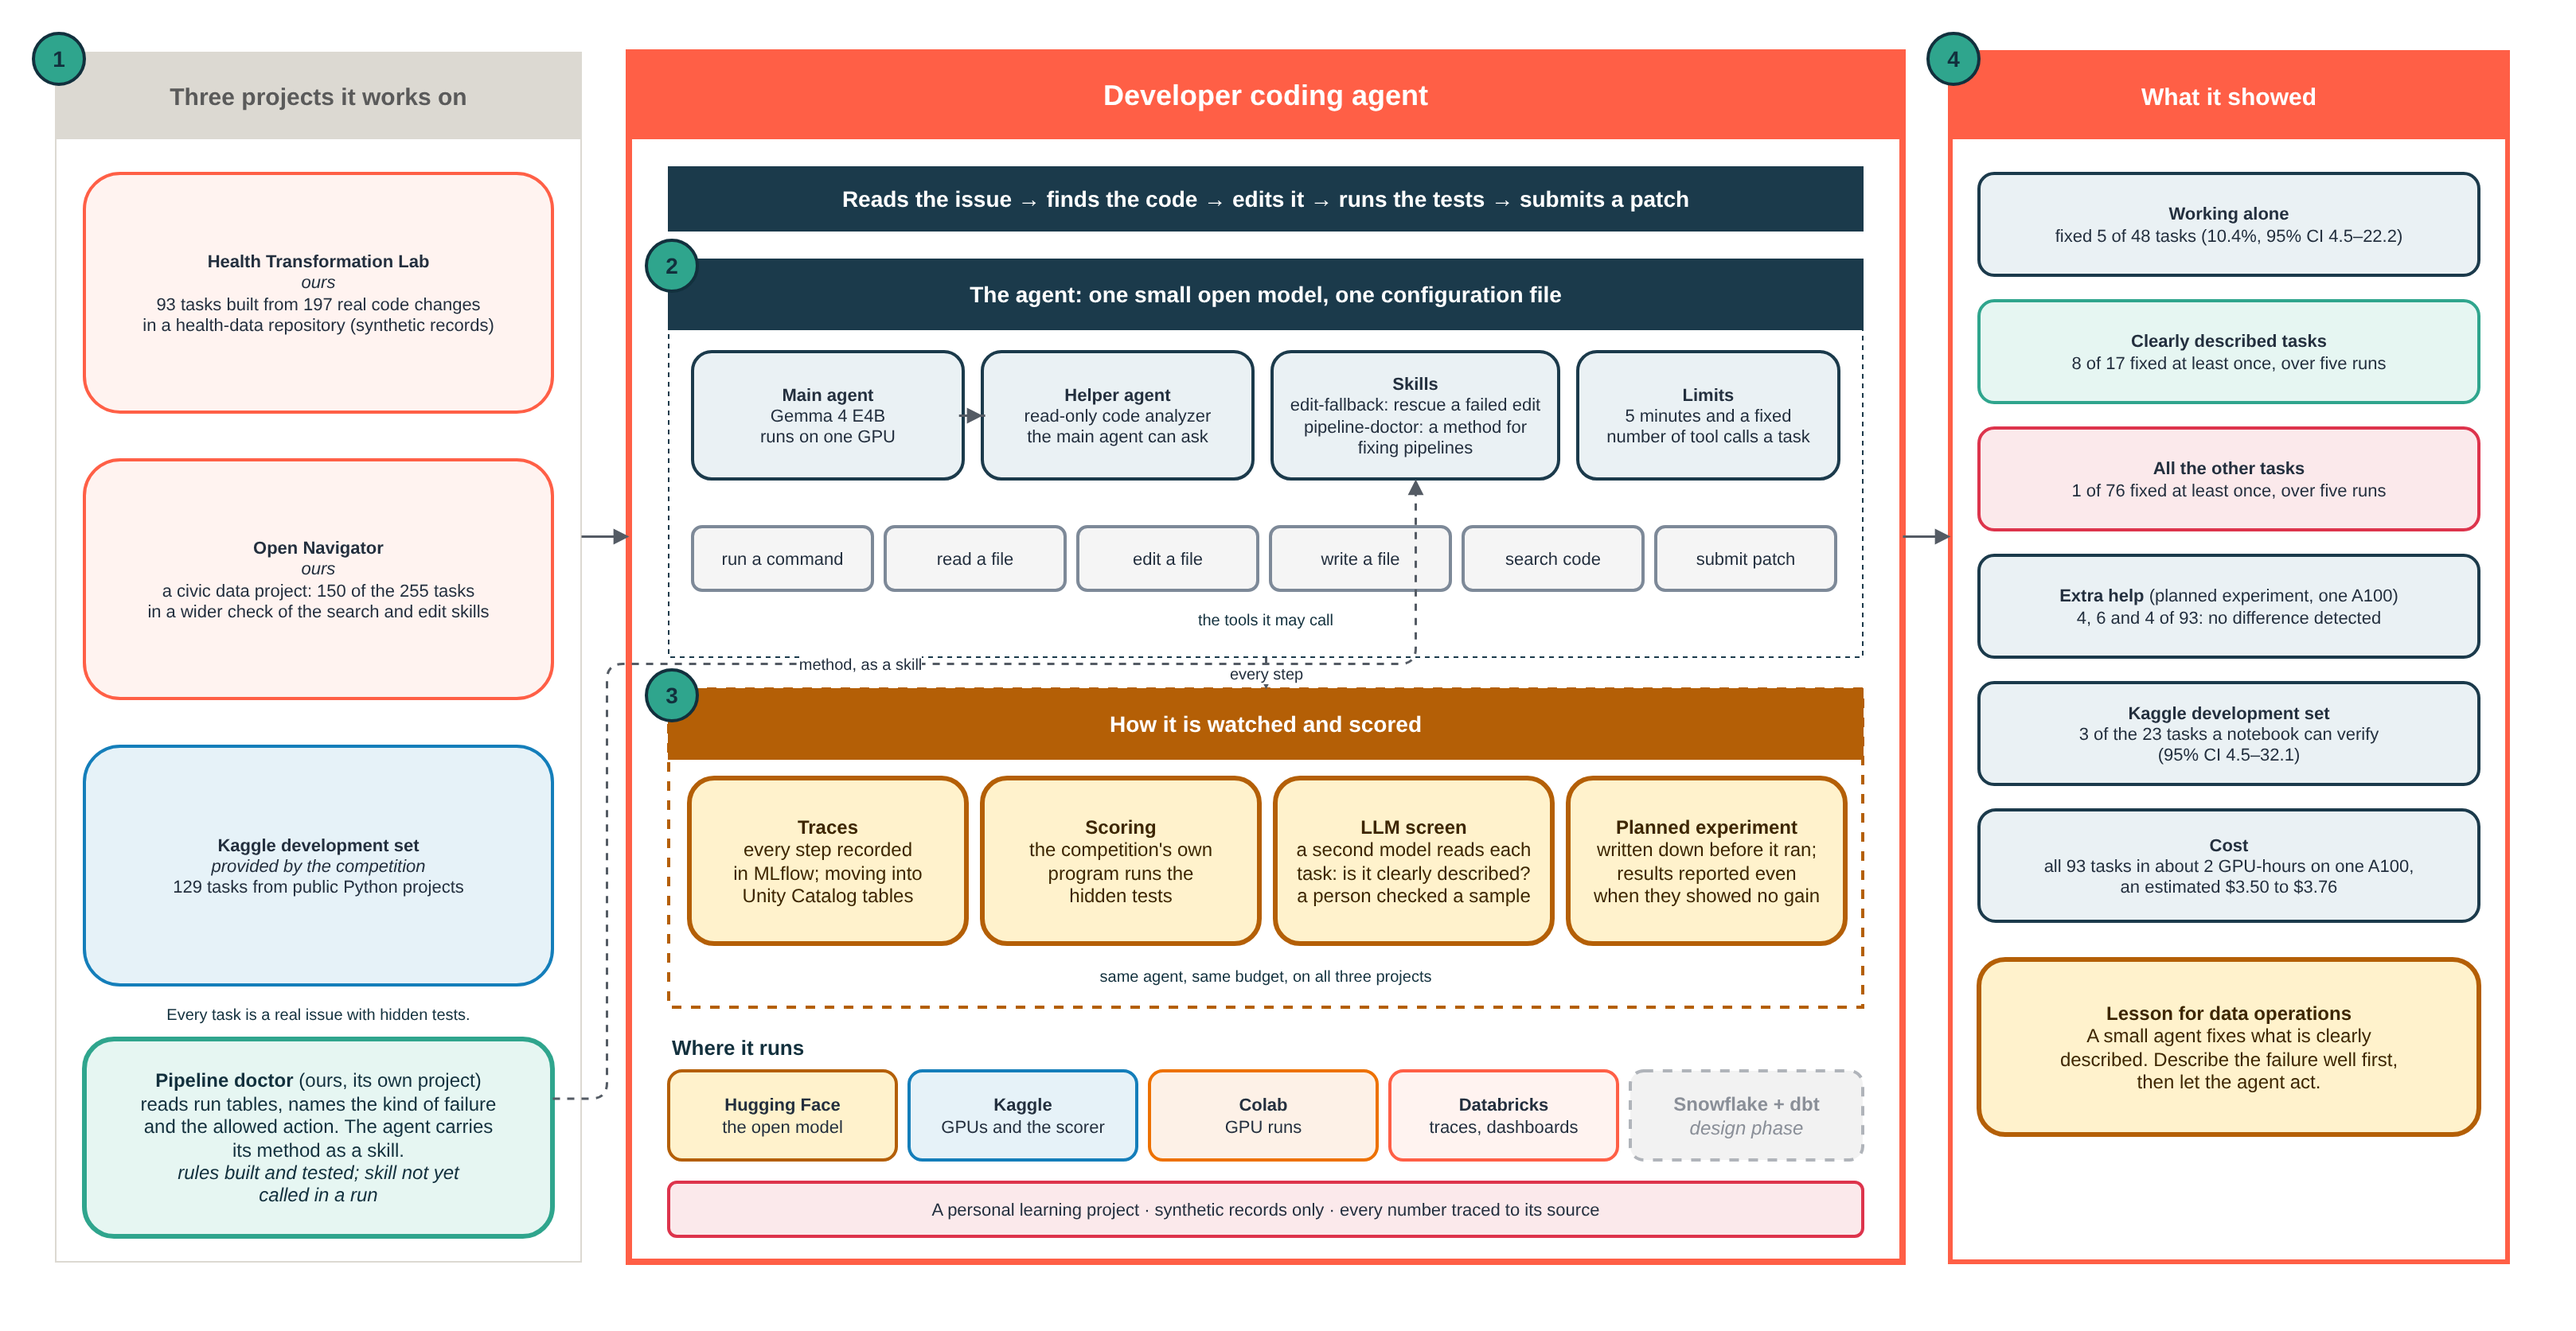
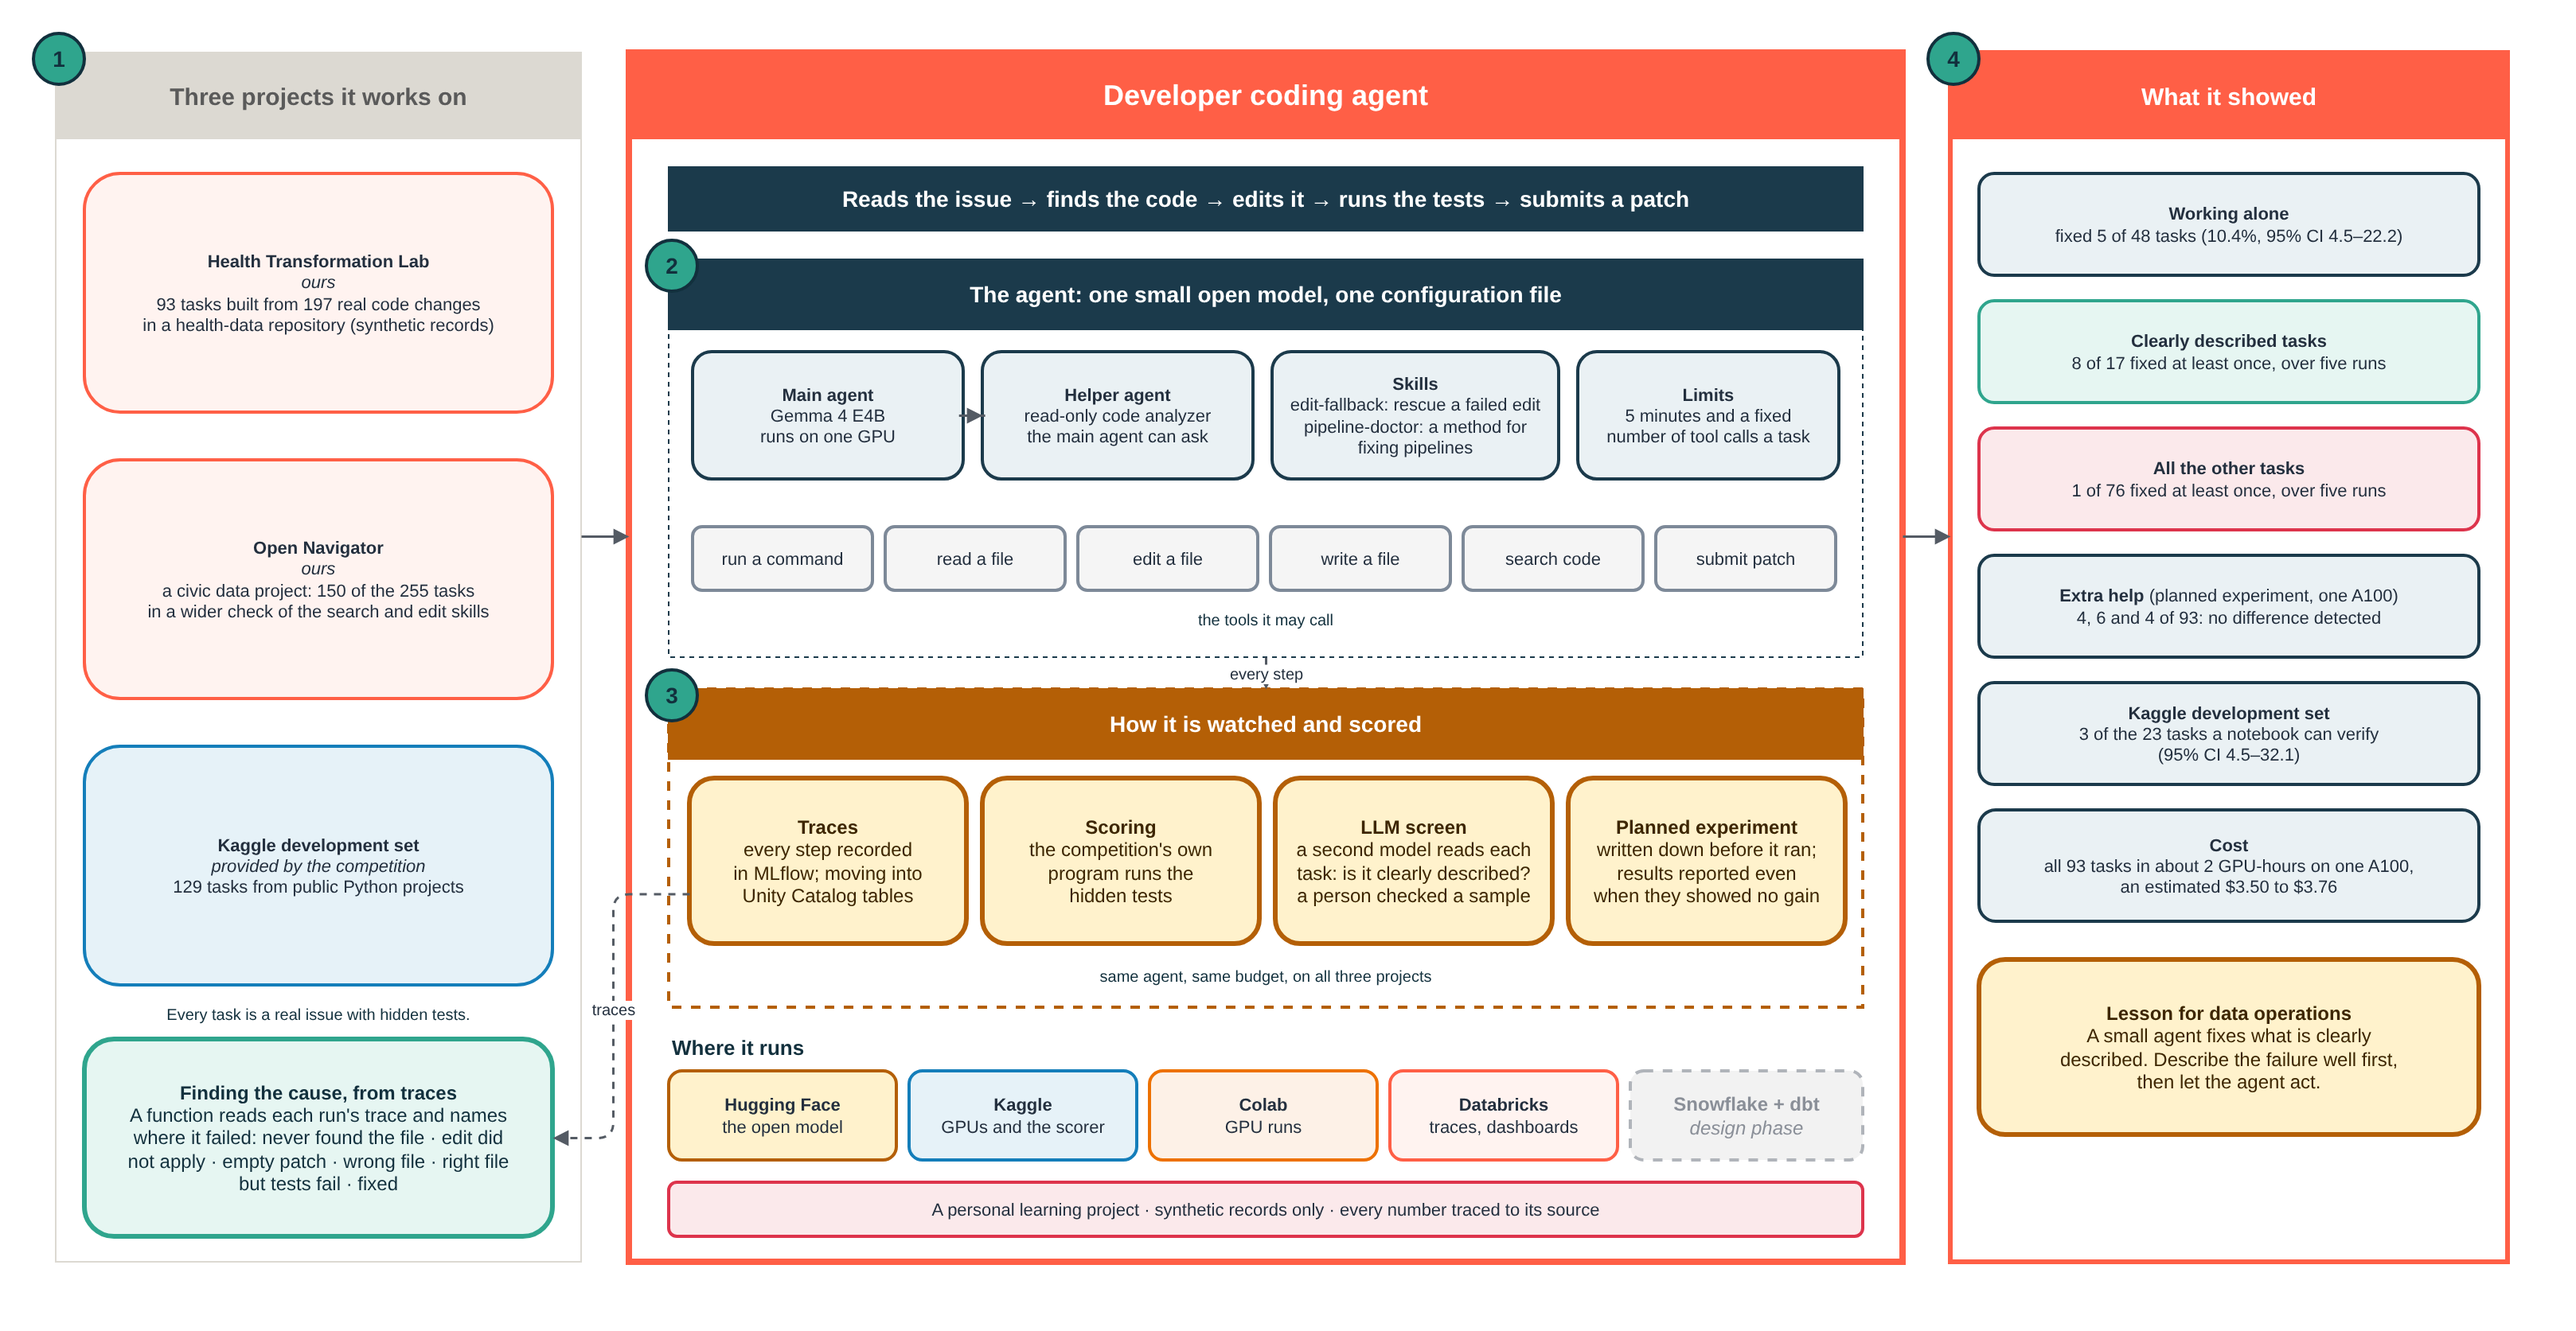
000 DOCS43: the README picture shows how a failed run's cause is found from its trace (#187)
* Show on the README picture how a failed run's cause is found from its trace

The bottom-left box named the pipeline doctor, a skill no run has called.
What the repository uses is analysis/failure_stages.py, which reads a run's
trace and names the stage where it stopped. The picture and its line now
say that; the skill keeps its mention.

Refs #186

Claude-Session: https://claude.ai/code/session_01MiKEPbiEr4nhssSMhupp2X

* Add the review of PR 187

Refs #186

Claude-Session: https://claude.ai/code/session_01MiKEPbiEr4nhssSMhupp2X

---------

Changed region(s): [[0.0624, 0.8081, 0.2185, 0.9014], [0.2185, 0.746, 0.2497, 0.777]]

diff --git a/README.md b/README.md
@@ -5,13 +5,13 @@
 > vendor, and nothing here is any organization's plan, study or finding. Every patient record in the source repository
 > is synthetic.
 
-<a href="docs/img/coding_agent_architecture.png"><img src="docs/img/coding_agent_architecture.png" alt="The developer coding agent and the three projects it runs on. Left: Health Transformation Lab (93 tasks from 197 real code changes), Open Navigator (150 of the 255 tasks in a wider check of the search and edit skills) and the competition's development set (129 tasks). Centre: the agent, Gemma 4 E4B with a read-only helper agent, two skills, a five-minute budget and its tools; below it, how it is watched and scored: traces, the competition's evaluator, an AI screen of the tasks and a pre-registered experiment; it runs on Hugging Face, Kaggle, Colab and Databricks, with Snowflake and dbt in the design phase. Bottom left: the pipeline doctor, a separate project whose method the agent carries as a skill, not yet called in a run. Right: what the runs showed, as in Results at a glance below."></a>
+<a href="docs/img/coding_agent_architecture.png"><img src="docs/img/coding_agent_architecture.png" alt="The developer coding agent and the three projects it runs on. Left: Health Transformation Lab (93 tasks from 197 real code changes), Open Navigator (150 of the 255 tasks in a wider check of the search and edit skills) and the competition's development set (129 tasks). Centre: the agent, Gemma 4 E4B with a read-only helper agent, two skills, a five-minute budget and its tools; below it, how it is watched and scored: traces, the competition's evaluator, an AI screen of the tasks and a pre-registered experiment; it runs on Hugging Face, Kaggle, Colab and Databricks, with Snowflake and dbt in the design phase. Bottom left: finding the cause from traces, where a function names the stage at which each run stopped. Right: what the runs showed, as in Results at a glance below."></a>
 
 **The picture in five lines** (the source is [`docs/img/coding_agent_architecture.drawio`](docs/img/coding_agent_architecture.drawio)):
 
 - **Three projects.** Two of ours, [health-transformation-lab-nlp](https://github.com/healthtransformationlab/health-transformation-lab-nlp) and [open-navigator](https://github.com/getcommunityone/open-navigator), and the competition's development set: [where the task set comes from](#what-has-been-run-and-what-it-cost), [the wider check](docs/leaderboard-plan.md).
 - **The agent.** One small open model, one configuration file: [`agent.yaml`](agent.yaml), [the agent, file by file](docs/agent_walkthrough.md).
-- **The pipeline doctor.** A separate project of ours that reads run tables, names the kind of failure and the allowed action. The agent carries its method as a skill, and no run so far has called it: [`skills/pipeline-doctor/`](skills/pipeline-doctor/SKILL.md), [pipeline-doctor](https://github.com/healthtransformationlab/pipeline-doctor), [the plan, and what is still to run](#what-has-been-run-and-what-it-cost).
+- **Finding the cause.** A function reads each run's trace and names the stage where it stopped: never read a file the fix changes, no edit went through, an empty patch, a patch on the wrong file, or a patch on the right file whose tests still fail: [`analysis/failure_stages.py`](analysis/failure_stages.py), [the study of the two helper scripts it led to](docs/fallback-scripts-study.md). The agent also carries the [pipeline-doctor](https://github.com/healthtransformationlab/pipeline-doctor) method as a skill, and no run so far has called it ([`skills/pipeline-doctor/`](skills/pipeline-doctor/SKILL.md)).
 - **Watched and scored.** Every step traced, every patch scored by the competition's own evaluator, in an experiment planned in advance: [every run and what it cost](#what-has-been-run-and-what-it-cost).
 - **What it showed.** [Results at a glance](#results-at-a-glance), each number with its run and interval.
 

diff --git a/pull_requests/pr-187-review.md b/pull_requests/pr-187-review.md
@@ -1,0 +1,18 @@
+# PR 187 review: the README picture shows how a failed run's cause is found from its trace (#186)
+
+Reviewed against `.conventions/AGENTS-common.md` and `AGENTS.md`.
+
+| Check | Result |
+|---|---|
+| One issue, branch `docs/186-readme-picture-trace-cause`, `Closes #186` | yes |
+| Tests | `pytest -q tests`: 104 passed, 1 skipped |
+| Stage names | match `analysis/failure_stages.py`: localize, edit, complete, patch_wrong_file, patch_right_file, resolved, in plain words |
+| No number is a result until a run produced it | no number added; the picture's figures are unchanged from #185 |
+| The submission | untouched: only `README.md`, `docs/img/` and this review |
+
+## Findings
+
+- **Not blocking:** the picture is a PNG; redraw it from `docs/img/coding_agent_architecture.drawio` when the README's figures change.
+- **Not checked:** how the picture reads on GitHub at phone width.
+
+Nothing blocking.
